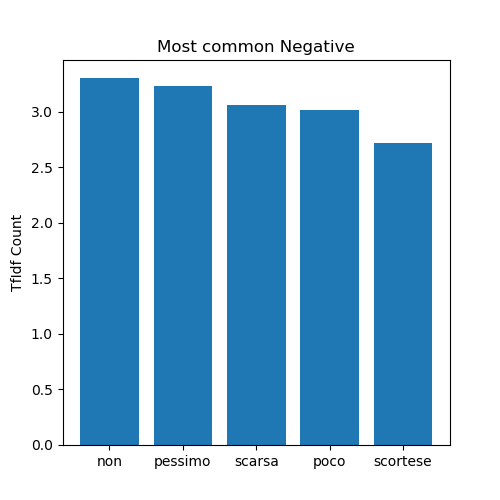
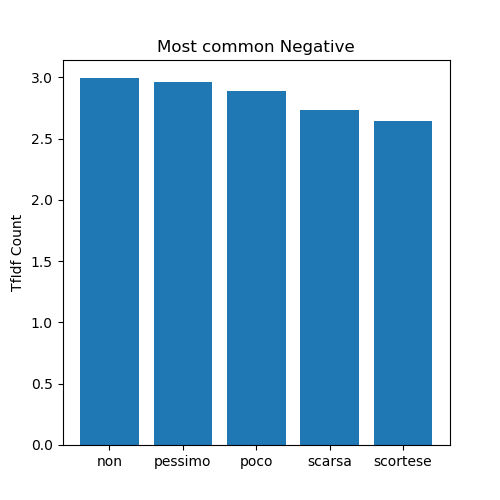
Best Process: f1- score is 0.96 LEADERBOARD SCORE: 0.970 add min_df=4 in the vectorizer, it doesn't improve the result

diff --git a/Final_exam.py b/Final_exam.py
@@ -1,6 +1,7 @@
 import pandas as pd
 import re
 from nltk.stem.snowball import ItalianStemmer
+import seaborn as sns
 import csv
 import time
 import matplotlib.pyplot as plt
@@ -116,6 +117,16 @@ def get_top_terms(num, final_model, tfidf_vec):
     plt.show()
 
 
+def get_sns_cfmatrix(y_test, y_pred):
+    conf_mat = confusion_matrix(y_test, y_pred)
+    conf_mat_df = pd.DataFrame(conf_mat, index=['pos', 'neg'], columns=['pos', 'neg'])
+    conf_mat_df.index.name = 'Actual'
+    conf_mat_df.columns.name = 'Predicted'
+    plot = sns.heatmap(conf_mat_df, annot=True, cmap='GnBu',
+                annot_kws={"size": 20}, fmt='g', cbar=False)
+    plt.show()
+
+
 def dump_to_file(filename, y_pred, dataset):
     with open(filename, mode="w", newline="") as csvfile:
         # Headers
@@ -157,8 +168,8 @@ stem_dev = get_stemmed_text(no_sw_dev)
 stem_eva = get_stemmed_text(no_sw_eva)
 # 2) Vectorization
 print('Vectorization...')
-stop_words = ['milano','un','tutti','ci','lo','era']
-tfidf_vec = TfidfVectorizer(ngram_range=(1,2), binary=True, stop_words=stop_words)
+stop_words = ['milano', 'un', 'tutti', 'ci', 'lo', 'era', 'ma']
+tfidf_vec = TfidfVectorizer(ngram_range=(1,2), binary=True, stop_words=stop_words, min_df=4)
 X = tfidf_vec.fit_transform(cleaned_dev)
 X_test = tfidf_vec.transform(cleaned_eva)
 
@@ -187,6 +198,8 @@ f1_cv = cross_val_score(clf, X, labels, cv=3, scoring='f1_weighted')
 mean_f1 = f1_cv.mean()
 std_f1 = f1_cv.std()
 print(f"f1 (statistics): {mean_f1:.2f} (+/- {std_f1:.2f})")
+# Get seaborn confusion matrix
+get_sns_cfmatrix(y_val, clf.predict(X_val))
 # 4) Fit the final model with the best hyperparameters found
 print('Fitting final model...')
 final_model = clf.best_estimator_
